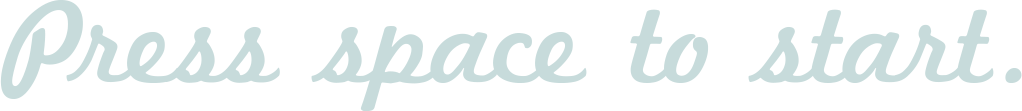
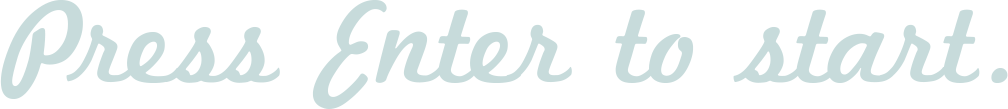
Man kann mit escape das Dialogfenster anzeigen lassen. Spiel startet man nun mit Enter. glfw zeit wird auf 0 gesetzt in der main.cpp.

diff --git a/src/Application.cpp b/src/Application.cpp
@@ -29,6 +29,8 @@ Application::Application(GLFWwindow* pWin, GamestateManager* gm) :
 	HUDCam(pWin),
 	gm(gm)
 {
+	crashed = false;
+	gamescore = 0;
 	leftKeyPressedOnce = false;
 	rightKeyPressedOnce = false;
 	Cam.setPosition(Vector(0.0f, 2.1f, 4.7f));
@@ -90,6 +92,23 @@ void Application::initModels() {
 
 	score = new Score(1.0f, 0.015f, 0.04f);
 	HUDModels.push_back(score);
+
+	//Dialog Fenster wird bereits geladen aber noch nicht gemalt
+	dialog = new HUDElement(0.367f, 0.4f, 0.6f, 0.0f, Texture::LoadShared(ASSET_DIRECTORY "Dialog.png"));
+	dialog->shader(new HUDShader(), true);
+	dialog->setTextureScale(1.0f, 1.0f);
+	
+	dialogScore = new Score(0.55f, 0.548f, 0.04f);
+
+	
+}
+
+void Application::initDialog() {
+	//Male Dialog nach Kollision
+	dialogScore->setNumber(gamescore);
+	HUDModels.push_back(dialog);
+	HUDModels.push_back(dialogScore);
+	crashed = true;
 }
 
 void Application::start()
@@ -103,11 +122,16 @@ void Application::start()
 void Application::update(double time, double frametime)
 {
 	getInput();
+	if (gm->getGameState() == 3) {
+		
+		track->update(frametime);
+		scenery->update(frametime);
+		gamescore = (unsigned int)(time * CARSPEED);
+		score->setNumber(gamescore);
+		car->update(frametime, *this);
+	}
 	Cam.update(frametime);
-	track->update(frametime);
-	scenery->update(frametime);
-	score->setNumber((unsigned int)(time * CARSPEED));
-	car->update(frametime, *this);
+	if (gm->getGameState() == 4 && !crashed) initDialog();
 }
 
 void Application::draw()
@@ -165,6 +189,8 @@ void Application::getInput() {
 
 	bool leftDown = glfwGetKey(pWindow, GLFW_KEY_LEFT) == GLFW_PRESS || glfwGetKey(pWindow, GLFW_KEY_A) == GLFW_PRESS;
 	bool rightDown = glfwGetKey(pWindow, GLFW_KEY_RIGHT) == GLFW_PRESS || glfwGetKey(pWindow, GLFW_KEY_D) == GLFW_PRESS;
+	bool escapeDown = glfwGetKey(pWindow, GLFW_KEY_ESCAPE) == GLFW_PRESS;
+	bool spaceDown = glfwGetKey(pWindow, GLFW_KEY_SPACE) == GLFW_PRESS;
 
 	if (leftDown && !leftKeyPressedOnce) {
 		car->steer(-1);
@@ -182,4 +208,18 @@ void Application::getInput() {
 	if (!rightDown) {
 		rightKeyPressedOnce = false;
 	}
+	
+	if (gm->getGameState() == 4 && spaceDown) {
+		gm->setGameState(5);
+		gamescore = 0.0f;
+		crashed = false;
+		
+	}
+		
+	if (gm->getGameState() == 3 && escapeDown) {
+		Cam.setLane(0);
+		gm->setGameState(4);
+	}
+		
+	
 }

diff --git a/src/Application.h b/src/Application.h
@@ -37,6 +37,7 @@ public:
 	void end();
 
 	void initModels();
+	void initDialog();
 
 	void getInput();
 
@@ -54,6 +55,8 @@ protected:
 	Scenery* scenery;
 	Score* score;
 	Car* car;
+	HUDElement* dialog;
+	Score* dialogScore;
 
 	HDRFramebuffer HDRBuffer;
 	PostTonemap Tonemap;
@@ -61,6 +64,8 @@ protected:
 
 	bool leftKeyPressedOnce;
 	bool rightKeyPressedOnce;
+	unsigned int gamescore;
+	bool crashed;
 };
 
 #endif /* Application_hpp */

diff --git a/src/main.cpp b/src/main.cpp
@@ -9,7 +9,7 @@
 #include "MainMenu.h"
 #include "SoundManager.h"
 
-#define SKIP_MENU
+#define SKIP_MENU1
 
 void PrintOpenGLVersion();
 
@@ -80,6 +80,7 @@ int main() {
 				break;
 			case 2:
 				//Spielwelt laden
+				glfwSetTime(0);
 				sm->stopAllSounds();
 				App.initModels();
 				sm->playDrivingMusic();

diff --git a/src/MainMenu.cpp b/src/MainMenu.cpp
@@ -87,7 +87,7 @@ void MainMenu::end()
 
 void MainMenu::getInput() {
 
-	if (glfwGetKey(pWindow, GLFW_KEY_SPACE) == GLFW_PRESS) {
+	if (glfwGetKey(pWindow, GLFW_KEY_ENTER) == GLFW_PRESS) {
 		gm->setGameState(2);
 		end();
 	}
